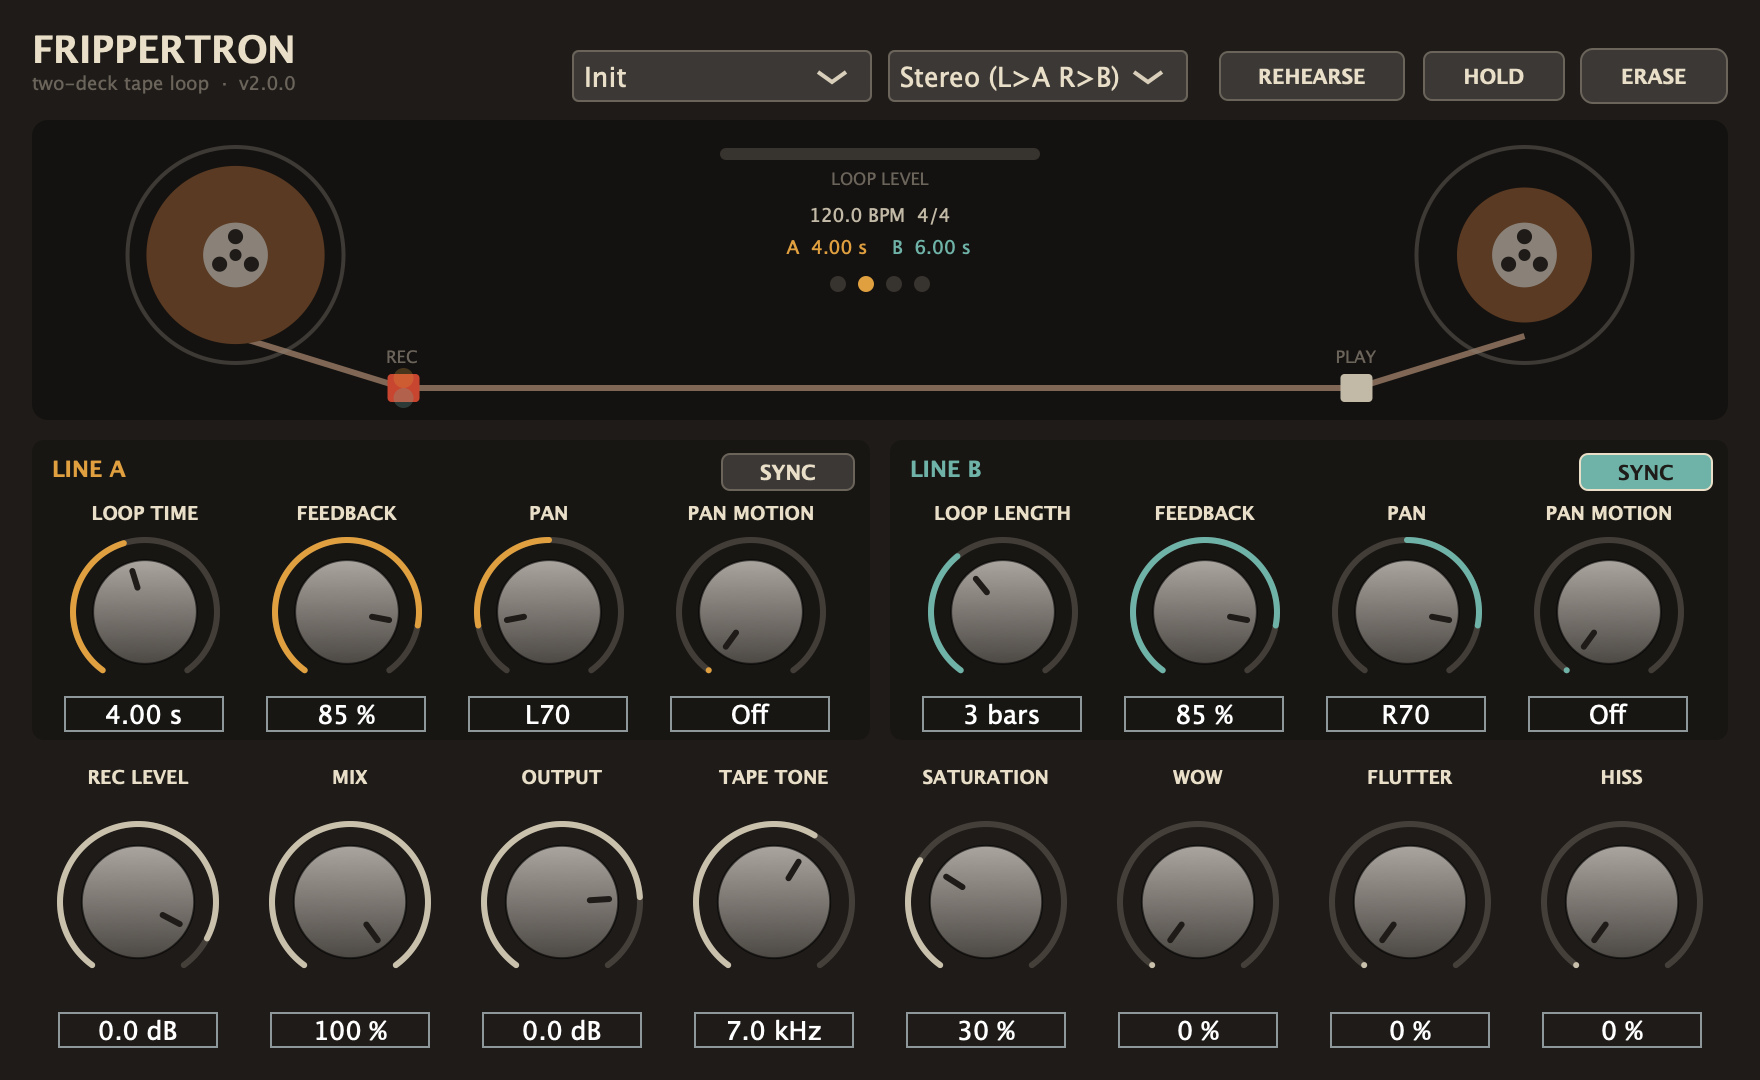
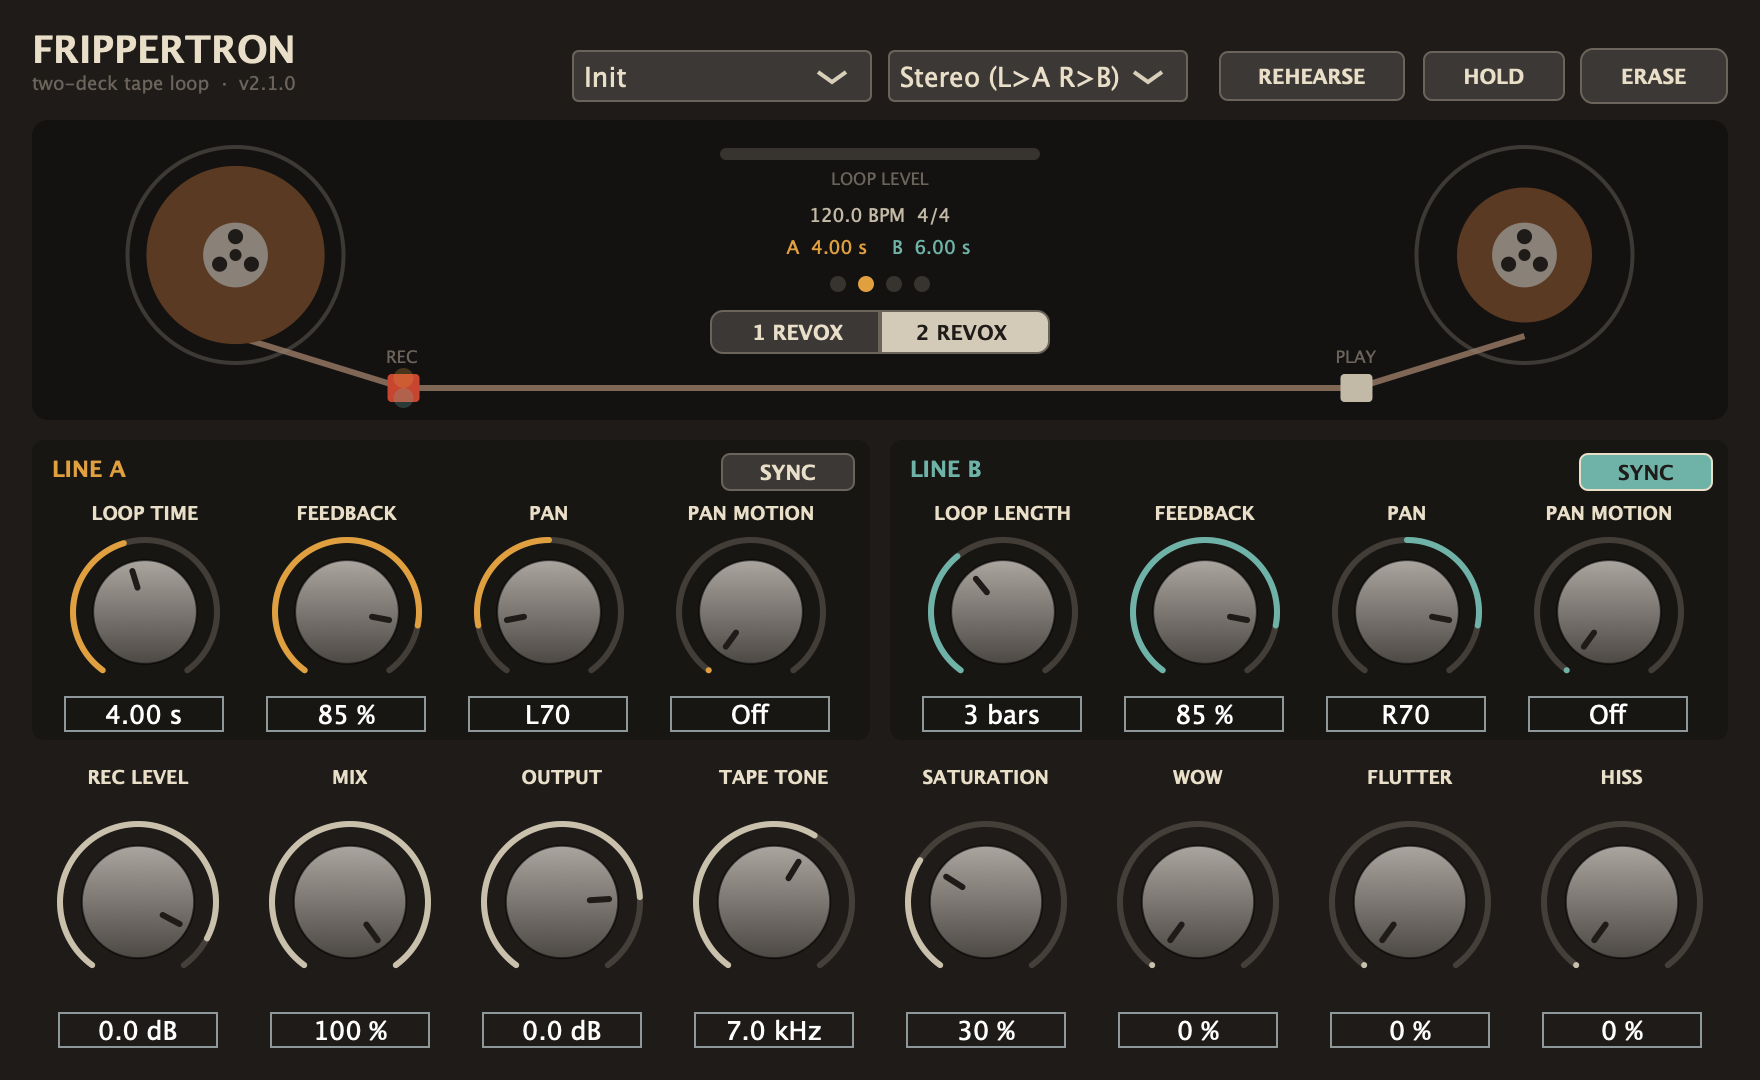
v2.1.0 — choix 1 REVOX / 2 REVOX
En 1 REVOX, la ligne B suit la durée, la synchro et la réinjection de A :
une seule machine, en stéréo, comme le dispositif d'origine. Son pan reste
libre pour la largeur stéréo. Le preset Classic Revox passe en 1 REVOX.

Changed region(s): [[0.4062, 0.275, 0.5938, 0.3361]]

diff --git a/Source/PluginProcessor.cpp b/Source/PluginProcessor.cpp
@@ -6,7 +6,8 @@ namespace ids
     // globaux
     static const juce::String tone = "tone", sat = "saturation", wow = "wow", flutter = "flutter",
                               hiss = "hiss", input = "input", mix = "mix", out = "output",
-                              hold = "hold", rehearse = "rehearse", erase = "erase", routing = "routing";
+                              hold = "hold", rehearse = "rehearse", erase = "erase", routing = "routing",
+                              decks = "decks";
 
     // par ligne : préfixe « a_ » ou « b_ »
     static const juce::String time = "time", sync = "sync", length = "length",
@@ -45,7 +46,8 @@ static const std::vector<Preset>& factoryPresets()
 {
     static const std::vector<Preset> presets {
         { "Init", {} },
-        { "Classic Revox",     { { "routing", 1 }, { "a_time", 4.0f }, { "a_feedback", 0.9f }, { "a_pan", 0.0f },
+        { "Classic Revox",     { { "decks", 0 }, { "a_time", 4.0f }, { "a_feedback", 0.9f },
+                                 { "a_pan", -1.0f }, { "b_pan", 1.0f },
                                  { "tone", 6000.0f }, { "wow", 0.3f } } },
         { "Two Revox Drift",   { { "routing", 3 }, { "a_time", 4.0f }, { "b_time", 5.3f },
                                  { "a_pan", -0.8f }, { "b_pan", 0.8f }, { "a_feedback", 0.88f }, { "b_feedback", 0.88f } } },
@@ -121,6 +123,7 @@ juce::AudioProcessorValueTreeState::ParameterLayout FrippertronProcessor::create
     l.add (std::make_unique<AudioParameterFloat>  (ParameterID { ids::mix, v },      "Mix",        NormalisableRange<float> (0.0f, 1.0f), 0.5f, pct));
     l.add (std::make_unique<AudioParameterFloat>  (ParameterID { ids::out, v },      "Output",     NormalisableRange<float> (-24.0f, 6.0f), 0.0f, db));
     l.add (std::make_unique<AudioParameterChoice> (ParameterID { ids::routing, v },  "Routing",    routingNames, 0));
+    l.add (std::make_unique<AudioParameterChoice> (ParameterID { ids::decks, v },    "Decks",      StringArray { "1 Revox", "2 Revox" }, 1));
     l.add (std::make_unique<AudioParameterBool>   (ParameterID { ids::hold, v },     "Hold", false));
     l.add (std::make_unique<AudioParameterBool>   (ParameterID { ids::rehearse, v }, "Rehearse", false));
     l.add (std::make_unique<AudioParameterBool>   (ParameterID { ids::erase, v },    "Erase", false));
@@ -154,6 +157,7 @@ FrippertronProcessor::FrippertronProcessor()
     pHold     = apvts.getRawParameterValue (ids::hold);
     pRehearse = apvts.getRawParameterValue (ids::rehearse);
     pErase    = apvts.getRawParameterValue (ids::erase);
+    pDecks    = apvts.getRawParameterValue (ids::decks);
 }
 
 bool FrippertronProcessor::isBusesLayoutSupported (const BusesLayout& layouts) const
@@ -218,7 +222,7 @@ void FrippertronProcessor::prepareToPlay (double sampleRate, int)
 
         for (auto* s : { &line.feedbackS, &line.inLS, &line.inRS })
             s->reset (sr, 0.05);
-        line.feedbackS.setCurrentAndTargetValue (lp[l].feedback->load());
+        line.feedbackS.setCurrentAndTargetValue (lp[timingLine (l)].feedback->load());
         const int route = juce::jlimit (0, 3, (int) pRouting->load());
         line.inLS.setCurrentAndTargetValue (routeGains[route][l][0]);
         line.inRS.setCurrentAndTargetValue (routeGains[route][l][1]);
@@ -271,7 +275,7 @@ void FrippertronProcessor::readHostPosition()
 
 double FrippertronProcessor::computeLoopSeconds (int line) const
 {
-    const auto& p = lp[line];
+    const auto& p = lp[timingLine (line)];
     if (p.sync->load() < 0.5f || ! hostHasTempo.load())
         return p.time->load();
 
@@ -368,7 +372,7 @@ void FrippertronProcessor::processBlock (juce::AudioBuffer<float>& buffer, juce:
         lineView[l].seconds.store ((float) loopSecs);
         targetDelay[l] = juce::jlimit (16.0, maxDelay, loopSecs * sr);
 
-        line.feedbackS.setTargetValue (lp[l].feedback->load());
+        line.feedbackS.setTargetValue (lp[timingLine (l)].feedback->load());
         line.inLS.setTargetValue (routeGains[route][l][0]);
         line.inRS.setTargetValue (routeGains[route][l][1]);
 

diff --git a/Source/PluginEditor.cpp b/Source/PluginEditor.cpp
@@ -23,6 +23,8 @@ TapeLookAndFeel::TapeLookAndFeel()
     setColour (juce::Label::textColourId, colours::cream);
     setColour (juce::TextButton::buttonColourId, colours::panel.brighter (0.15f));
     setColour (juce::TextButton::textColourOffId, colours::cream);
+    setColour (juce::TextButton::buttonOnColourId, colours::cream.darker (0.1f));
+    setColour (juce::TextButton::textColourOnId, colours::panel);
     setColour (juce::ToggleButton::tickColourId, colours::red);
     setColour (juce::ComboBox::backgroundColourId, colours::panel.brighter (0.15f));
     setColour (juce::ComboBox::textColourId, colours::cream);
@@ -144,6 +146,18 @@ FrippertronEditor::FrippertronEditor (FrippertronProcessor& p)
     clearButton.onClick = [this] { proc.requestClear(); };
     addAndMakeVisible (clearButton);
 
+    // ── 1 REVOX / 2 REVOX ──
+    oneDeckButton.setConnectedEdges (juce::Button::ConnectedOnRight);
+    twoDeckButton.setConnectedEdges (juce::Button::ConnectedOnLeft);
+    for (auto* b : { &oneDeckButton, &twoDeckButton })
+        addAndMakeVisible (b);
+    decksAttachment = std::make_unique<juce::ParameterAttachment> (
+        *proc.apvts.getParameter ("decks"),
+        [this] (float v) { singleDeck = v < 0.5f; updateDeckView(); });
+    oneDeckButton.onClick = [this] { decksAttachment->setValueAsCompleteGesture (0.0f); };
+    twoDeckButton.onClick = [this] { decksAttachment->setValueAsCompleteGesture (1.0f); };
+    decksAttachment->sendInitialUpdate();
+
     updateSyncView();
     setSize (880, 540);
     startTimerHz (30);
@@ -183,6 +197,24 @@ void FrippertronEditor::updateSyncView()
         ui.length.slider.setVisible (sync);
         ui.length.label.setVisible (sync);
     }
+}
+
+void FrippertronEditor::updateDeckView()
+{
+    oneDeckButton.setToggleState (singleDeck, juce::dontSendNotification);
+    twoDeckButton.setToggleState (! singleDeck, juce::dontSendNotification);
+
+    // 1 REVOX : la durée et la réinjection de B suivent A ; son pan reste réglable
+    auto& b = lineUI[1];
+    for (juce::Component* c : { (juce::Component*) &b.time.slider, (juce::Component*) &b.time.label,
+                                (juce::Component*) &b.length.slider, (juce::Component*) &b.length.label,
+                                (juce::Component*) &b.feedback.slider, (juce::Component*) &b.feedback.label,
+                                (juce::Component*) &b.sync })
+    {
+        c->setEnabled (! singleDeck);
+        c->setAlpha (singleDeck ? 0.3f : 1.0f);
+    }
+    repaint();
 }
 
 void FrippertronEditor::timerCallback()
@@ -334,8 +366,8 @@ void FrippertronEditor::paint (juce::Graphics& g)
         g.fillRoundedRectangle (ui.panel.toFloat(), 6.0f);
         g.setColour (colours::line (l));
         g.setFont (juce::FontOptions (13.0f, juce::Font::bold));
-        g.drawText (l == 0 ? "LINE A" : "LINE B", ui.panel.reduced (10, 4).removeFromTop (20),
-                    juce::Justification::centredLeft);
+        g.drawText (l == 0 ? "LINE A" : (singleDeck ? "LINE B  (suit A)" : "LINE B"),
+                    ui.panel.reduced (10, 4).removeFromTop (20), juce::Justification::centredLeft);
     }
 }
 
@@ -357,6 +389,12 @@ void FrippertronEditor::resized()
     presetBox.setBounds (top.removeFromRight (150).reduced (0, 9));
 
     deckArea = area.removeFromTop (150).toFloat();
+    {
+        // sélecteur sous le métronome, au centre de l'affichage
+        auto sel = juce::Rectangle<int> (0, 0, 170, 22).withCentre ({ (int) deckArea.getCentreX(), (int) deckArea.getY() + 106 });
+        oneDeckButton.setBounds (sel.removeFromLeft (85));
+        twoDeckButton.setBounds (sel);
+    }
     area.removeFromTop (10);
 
     auto layoutRow = [] (juce::Rectangle<int> r, std::initializer_list<Knob*> knobs)

diff --git a/Tests/ProcessorTests.cpp b/Tests/ProcessorTests.cpp
@@ -105,11 +105,13 @@ int main (int argc, char** argv)
 {
     juce::ScopedJuceInitialiser_GUI juce;
 
-    // FrippertronTests --snapshot fichier.png : capture de l'interface, sans lancer les tests
+    // FrippertronTests --snapshot fichier.png [single] : capture de l'interface, sans lancer les tests
     if (argc > 2 && juce::String (argv[1]) == "--snapshot")
     {
         Rig rig (true);
         rig.set ("b_sync", 1);
+        if (argc > 3 && juce::String (argv[3]) == "single")
+            rig.set ("decks", 0);
         rig.run (1.0, [] (int i) { const float v = std::sin (i * 0.03f) * 0.5f; return std::pair<float, float> { v, v }; });
         std::unique_ptr<juce::AudioProcessorEditor> editor (rig.proc.createEditor());
         auto image = editor->createComponentSnapshot (editor->getLocalBounds(), true, 2.0f);
@@ -147,6 +149,19 @@ int main (int argc, char** argv)
         rig.run (7.0, impulse (true, true));
         check (rig.peakAround (4.0) < 0.01f && rig.peakAround (4.0, false) < 0.01f, "A reste muette");
         check (rig.peakAround (6.0, false) > 0.5f, "B reçoit la somme mono");
+    }
+
+    std::printf ("1 REVOX : la ligne B suit la durée de A\n");
+    {
+        Rig rig;
+        rig.set ("decks", 0); rig.set ("routing", 3);
+        rig.set ("b_time", 6.0f); rig.set ("b_feedback", 0.0f);   // ignorés en 1 REVOX
+        rig.proc.prepareToPlay (sr, block);
+        rig.run (9.0, impulse (true, false));
+        check (rig.peakAround (4.0, false) > 0.2f, "écho de B à 4 s, comme A");
+        check (rig.peakAround (6.0, false) < 0.01f, "rien à 6 s");
+        check (rig.peakAround (8.0, false) > 0.05f, "B réinjecte avec le feedback de A (second passage à 8 s)");
+        check (std::abs (rig.proc.getLoopSeconds (1) - 4.0f) < 0.001f, "durée affichée de B : 4.00 s");
     }
 
     std::printf ("Réinjection : les passages suivants décroissent\n");
@@ -238,6 +253,8 @@ int main (int argc, char** argv)
         rig.proc.setCurrentProgram (3);     // Polymeter 4:5
         auto get = [&] (const char* id) { auto* p = rig.proc.apvts.getParameter (id); return p->convertFrom0to1 (p->getValue()); };
         check (get ("a_sync") > 0.5f && (int) get ("a_length") == 5 && (int) get ("b_length") == 6, "Polymeter 4:5 : A 4 mesures, B 5 mesures");
+        rig.proc.setCurrentProgram (1);     // Classic Revox
+        check ((int) get ("decks") == 0, "Classic Revox : 1 REVOX");
         rig.set ("hold", 1);
         rig.proc.setCurrentProgram (0);
         check (get ("a_sync") < 0.5f && std::abs (get ("a_time") - 4.0f) < 0.001f, "Init remet les valeurs par défaut");

diff --git a/Source/PluginProcessor.h b/Source/PluginProcessor.h
@@ -98,6 +98,9 @@ private:
     };
 
     void readHostPosition();
+    // 1 REVOX : la ligne B suit la durée et la réinjection de A (une seule machine, en stéréo)
+    bool isSingleDeck() const noexcept { return pDecks->load() < 0.5f; }
+    int timingLine (int line) const noexcept { return line == 1 && isSingleDeck() ? 0 : line; }
     double computeLoopSeconds (int line) const;
     double motionCycleSeconds (int line) const;   // 0 si pan automatique coupé
     float readCubic (const float* buf, double pos) const noexcept;
@@ -132,7 +135,7 @@ private:
 
     // pointeurs paramètres globaux
     std::atomic<float> *pTone, *pSat, *pWow, *pFlutter, *pHiss, *pInput, *pMix, *pOut,
-                       *pHold, *pRehearse, *pErase, *pRouting;
+                       *pHold, *pRehearse, *pErase, *pRouting, *pDecks;
 
     JUCE_DECLARE_NON_COPYABLE_WITH_LEAK_DETECTOR (FrippertronProcessor)
 };

diff --git a/Source/PluginEditor.h b/Source/PluginEditor.h
@@ -41,6 +41,7 @@ private:
 
     void setupKnob (Knob&, const juce::String& paramId, const juce::String& text, juce::Colour);
     void updateSyncView();
+    void updateDeckView();
 
     FrippertronProcessor& proc;
     TapeLookAndFeel lnf;
@@ -49,6 +50,9 @@ private:
     juce::ToggleButton holdButton { "HOLD" }, rehearseButton { "REHEARSE" };
     juce::TextButton   clearButton { "ERASE" };
     juce::ComboBox     presetBox, routingBox;
+    juce::TextButton   oneDeckButton { "1 REVOX" }, twoDeckButton { "2 REVOX" };
+    std::unique_ptr<juce::ParameterAttachment> decksAttachment;
+    bool singleDeck = false;
     std::unique_ptr<juce::AudioProcessorValueTreeState::ButtonAttachment> holdAttachment, rehearseAttachment;
     std::unique_ptr<juce::AudioProcessorValueTreeState::ComboBoxAttachment> routingAttachment;
 
